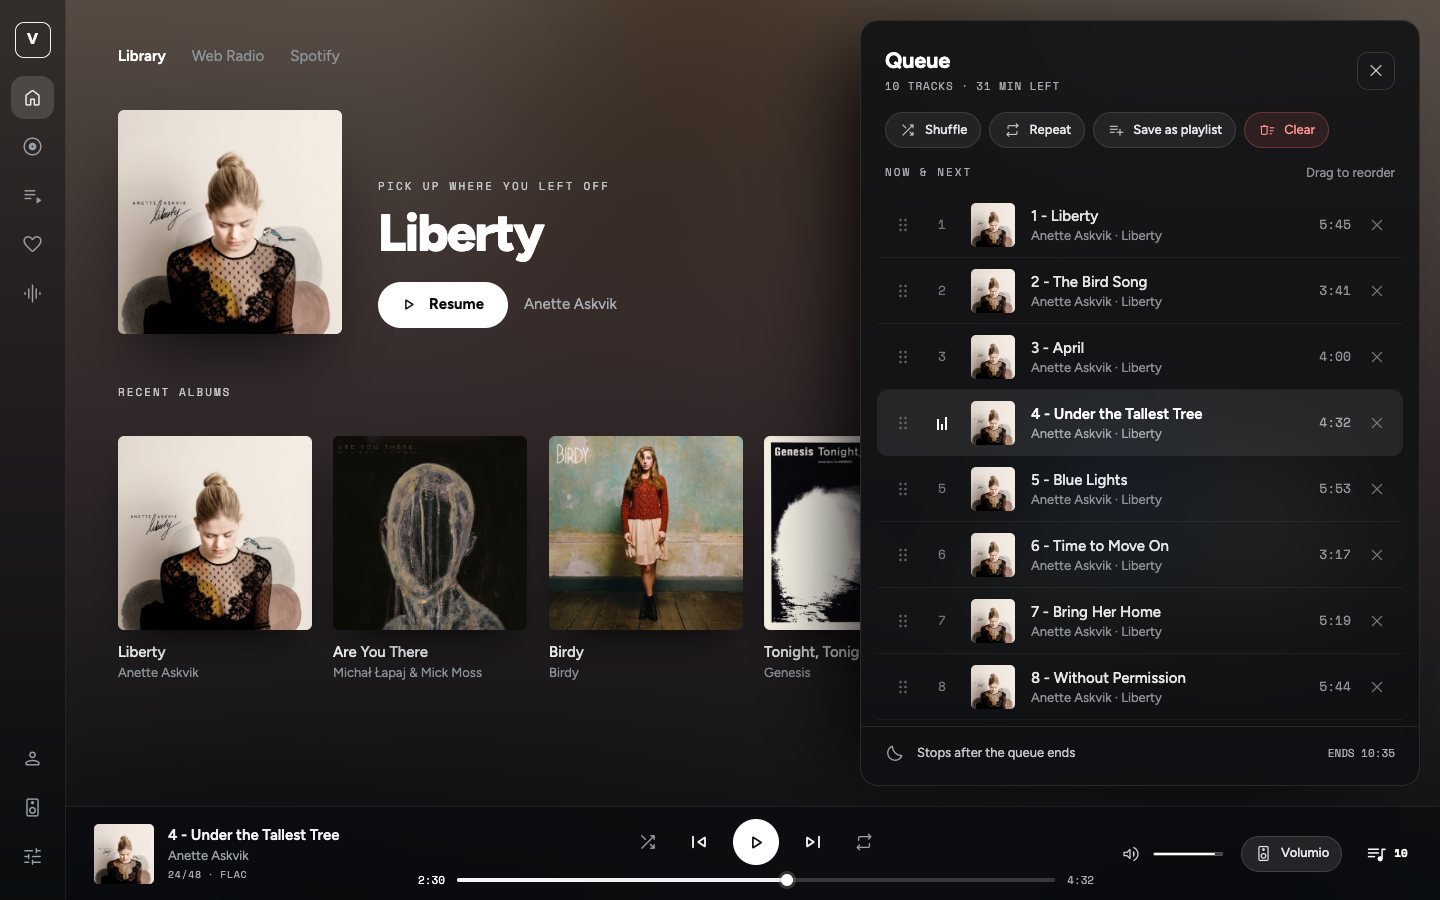
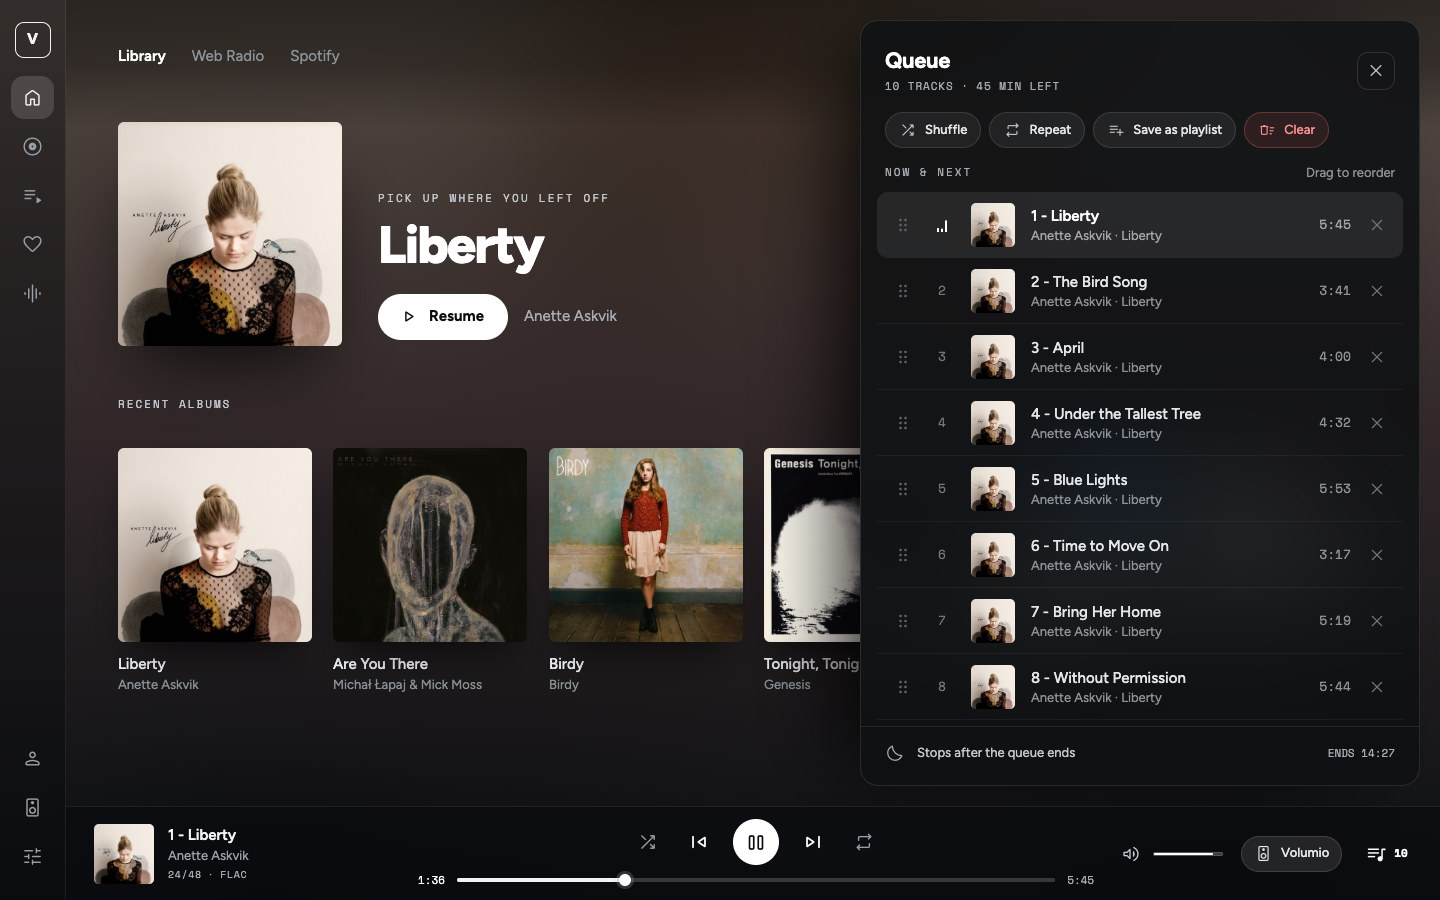
artwork: the elapsed time stays inside the track, and fresh screenshots
Volumio keeps counting its own seek while the player sits stopped at the end of a queue,
so the pushed state can claim a position hours past the end: a four-minute track showed
165:12 elapsed, with the bar back at the start. The seek bar now reads a position of its
own — nothing while stopped, never past the duration — and the fill, the remaining time
and the accessible value all come from it, so the label and the bar cannot disagree.

The Now Playing, home and queue screenshots are retaken on the current interface: the
volume now sits at the bottom right, and the home head no longer carries an avatar.

diff --git a/src/app/components/player-seekbar/player-seekbar.directive.js b/src/app/components/player-seekbar/player-seekbar.directive.js
@@ -76,14 +76,29 @@ class playerSeekBarController {
     });
   }
 
+  /* How far into the track we are, in milliseconds.
+     Volumio keeps counting its own `seek` while the player sits stopped at the end of a queue,
+     so the pushed state can claim a position hours past the end of a four-minute track. What
+     the bar shows has to stay inside the track: nothing when stopped, never past the duration. */
+  elapsedMs(){
+    const st = this.playerService.state;
+    if (!st || st.status === 'stop') { return 0; }
+    const ms = this.playerService.elapsedTime || 0;
+    const duration = st.duration ? st.duration * 1000 : 0;
+    return duration ? Math.min(Math.max(0, ms), duration) : Math.max(0, ms);
+  }
+
   // the played share of the track, 0..100 (the fill's width and the handle's position)
   playedPct(){
+    const st = this.playerService.state;
+    const duration = st && st.duration ? st.duration * 1000 : 0;
+    if (duration) { return Math.min(100, Math.max(0, (this.elapsedMs() / duration) * 100)); }
     const p = (this.playerService.seekPercent / this.seekScale) * 100;
     return Math.min(100, Math.max(0, p || 0));
   }
 
   ariaNow(){
-    return Math.round((this.playerService.seekPercent / this.seekScale) * 100);
+    return Math.round(this.playedPct());
   }
 
   onKey(ev){
@@ -120,14 +135,13 @@ class playerSeekBarController {
   }
 
   getElapsed() {
-    let elapsedTime = this.playerService.elapsedTime;
-    return this.momentToString(elapsedTime);
+    return this.momentToString(this.elapsedMs());
   }
 
   getRemaining(){
     const st = this.playerService.state;
     if (!st || !st.duration) { return ''; }
-    return this.momentToString(Math.max(0, st.duration * 1000 - (this.playerService.elapsedTime || 0)));
+    return this.momentToString(Math.max(0, st.duration * 1000 - this.elapsedMs()));
   }
 
   getDuration(){
